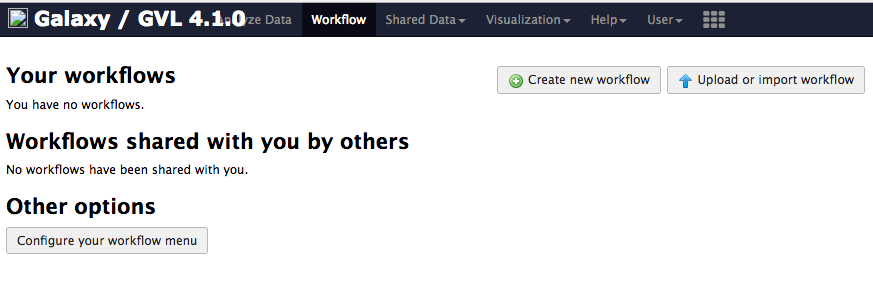
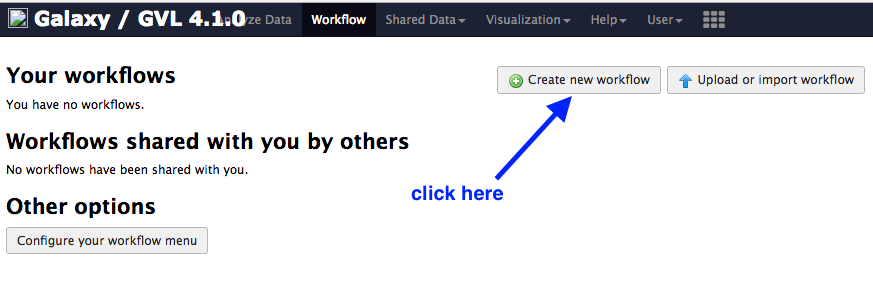
finished draft workflows module

Changed region(s): [[0.5876, 0.3257, 0.6804, 0.5329], [0.4639, 0.6217, 0.5876, 0.6809], [0.5567, 0.5329, 0.5876, 0.5921]]

diff --git a/docs/modules/workflows/index.md b/docs/modules/workflows/index.md
@@ -3,9 +3,9 @@
 
 This tutorial assumes you have used Galaxy before.
 
-Although we can use tools in Galaxy to analyse data and create a history, there is also a way to create a workflow of files, tools, settings and outputs.
+Although we can use tools in Galaxy to analyse data and create a history, there is also a way to create a workflow of files, tools, settings and outputs. You can then input different datasets and run the workflow.
 
-You can then input different datasets and run the workflow.
+This tutorial covers building a workflow to analyse a bacterial genome, from input Fastq sequencing reads to assembly, annotation, and visualization.
 
 ## Start
 
@@ -21,7 +21,7 @@ Import a history of data files:
 
 - Click <ss>Submit</ss>
 - Wait a few seconds.
-- Click on the "view all histories" button ![histories icon](images/histories.png)
+- Click on the "View all histories" button ![histories icon](images/histories.png)
 - See if the Galaxy history has been imported: it will be called <fn>imported from archive: Data</fn>
 - Above that pane, click on the <ss>Switch to</ss> button.
 - Then click <ss>Done</ss> (in the top left corner).
@@ -31,43 +31,44 @@ Import a history of data files:
 
 ## Build a workflow
 
-We will write a workflow for assembling a bacterial genome with Spades and annotating it with Prokka.
+We will first write a workflow for genome assembly.
 
-In the top menu bar in Galaxy, click on "Workflow".
+- In the top menu bar in Galaxy, click on "Workflow".
 
-workflow_menu.png
+![workflowmenu](images/workflow_menu.png)
 
-Click on <ss>Create new workflow</ss>
+- Click on <ss>Create new workflow</ss>
 
-create_new.png
+![createnew](images/create_new.png)
 
-Under "Workflow Name:" put in e.g. Reads to Annotation.
+- Under <ss>Workflow Name:</ss> put in "Reads to Annotation".
 
-Click <ss>Create</ss>
+- Click <ss>Create</ss>
 
-This will bring up the "Workflow Canvas", a grid where you can arrange the workflow.
+- This will bring up the "Workflow Canvas", a grid where you can arrange the workflow.
 
 ### Add inputs
 
-In the Tools panel, click <ss>Inputs: Input datset</ss> (at the very top of the list).
+- In the Tools panel, click <ss>Inputs: Input datset</ss> twice (at the very top of the list).
 
-A box will appear: drag it to the left and there will be another box underneath it. Drag this also to the left.
+- A box will appear: drag it to the left and there will be another box underneath it. Drag this also to the left. Your workflow canvas should look like this:
 
-inputs.png
+![inputs](images/inputs.png)
 
-Click on the first box. Look in the right hand panel (now called "Details") and change the name of the Input dataset to R1.fastq. Press Enter for the change to be saved.
-R1fastq.png
+- Click on the first box. Look in the right hand panel (now called "Details") and change the name of the Input dataset to <fn>R1.fastq</fn>. Press Enter for the change to be saved.
 
-Repeat for the second input dataset box, naming that one R2.fastq.
+![input_name](images/R1fastq.png)
+
+- Repeat for the second input dataset box, naming that one <fn>R2.fastq</fn>.
 
 ### Add the tool "spades"
 
-In the tools panel, click on NGS Analysis: NGS Assembly: spades
-This brings up the spades tool box:
+- In the tools panel, click on <ss>NGS Analysis: NGS Assembly: spades</ss>.
+This puts the spades box onto the workflow canvas.
 
-spades.png
+![spades](images/spades.png)
 
-Click on that box and look in the Details pane on the right. This shows all the options in spades. Choose:
+- Click on the spades box and look in the Details pane on the right. This shows all the options in spades. Choose:
 
 - <ss>Run only Assembly</ss>: *Yes* [the *Yes* button should be darker grey]
 - <ss>Kmers to use separated by commas:</ss> *33,55,91*  [note: no spaces]  
@@ -75,56 +76,200 @@ Click on that box and look in the Details pane on the right. This shows all the 
 
 ### Join inputs to the tool
 
-Now tell spades which input files to use. Look at the input dataset box called R1.fastq and find the small arrow: >
+Now tell spades which input files to use.
 
-Click on this and drag the arrow over to the spades box input arrow > next to "Libraries 1 > Files 1 > Forward reads".
+- Look at the input dataset box called <fn>R1.fastq</fn> and find the small arrow: >
 
-Repeat for R2.fastq, joining to "Reverse reads":
+- Click on this and drag the arrow over to the spades box input arrow > next to "Libraries 1 > Files 1 > Forward reads".
 
-join.png
+![join boxes](images/join.png)
+
+- Repeat for the dataset box <fn>R2.fastq</fn>, joining to the spades box next to "Libraries 1 > Files 1 > Reverse reads".
 
 ### Save it and run
 
-Click on the cog at the top right of the workflow canvas and "Save".
+- Click on the cog at the top right of the workflow canvas and "Save".
 
-save.png
+![save workflow](images/save.png)
 
-Click the cog again and choose "Run".
+- Click the cog again and choose "Run".
 
-Under <ss>Step1: Input dataset</ss> choose <fn>mutant_R1.fastq</fn>.
-Under <ss>Step2: Input dataset</ss> choose <fn>mutant_R2.fastq</fn>.
+- This brings up a window where you specify the input datasets to use in the workflow.
 
-Click <ss>Run workflow</ss>.
+    - Under <ss>Step1: Input dataset</ss> choose <fn>mutant_R1.fastq</fn>.
+    - Under <ss>Step2: Input dataset</ss> choose <fn>mutant_R2.fastq</fn>.
+
+- Click <ss>Run workflow</ss>.
 
 This will run the workflow (spades) and save the output to the top of your current history in the right hand panel.
 
-View some of the files with the eye icon to check that the workflow (in this case, just spades) ran correctly.
+- View some of the output files with the eye icon to check that the workflow (in this case, just spades) ran correctly.
 
-## Add annotation to the worfklow
+## Add to the worfklow
 
-Go to the top panel and click "Workflow".
+We will add another tool to the workflow.
 
-Your workflow "Reads to Annotation" should be in the list. Click on the drop-down arrow next to this workflow and choose "Edit". This will bring up the Workflow Canvas where we can add more inputs and tools.
+- Go to the top Galaxy panel and click "Workflow".
 
-Click on prokka.
+- Your workflow <fn>Reads to Annotation</fn> should be in the list. Click on the drop-down arrow next to this workflow and choose <ss>Edit</ss>.
 
-join spades output: contigs to prokka input: contigs.
+- This will bring up the Workflow Canvas where we can add more inputs and tools.
 
-prokka.png
+- In the Tools panel, click on <ss>NGS Annotation: Prokka</ss>. This will add a Prokka box to the workflow canvas.
 
-Click on the prokka box and change some of the settings in the right hand "Details" panel:
+- We need to tell Prokka which genome assembly) to annotate. Join the spades output called <fn>out_contigs(fasta)</fn> to the Prokka input called <fn>Contigs to annotate</fn>.
 
-- Set the following parameters (leave everything else unchanged):
+![join spades to prokka](images/prokka.png)
+
+- Click on the Prokka box and change some of the settings in the right hand Details panel:
+
+    - Set the following parameters (leave everything else unchanged):
     - <ss>Locus tag prefix (--locustag)</ss>: P
     - <ss>Force GenBank/ENA/DDJB compliance (--compliant)</ss>: *No*
     - <ss>Sequencing Centre ID (--centre)</ss>: V
     - <ss>Use genus-specific BLAST database</ss> *No*  
 
+- Click on the cog to the top right of the workflow canvas to save.
 
-Click on the cog to save.
+- Click on the cog again to run.
 
-Click on the cog to run. Again choose the R1 and R2 input files and Run workflow.
+    - Again, choose the input files: <fn>mutant_R1.fastq</fn> and <fn>mutant_R2.fastq</fn>, and then click <ss>Run workflow</ss>.
 
-## Add visualization to the workflow
+- The output from the workflow (files from spades and prokka) will appear at the top of the History panel.
 
-Add JBrowse.
+- Click on the eye icon for some files to verify the workflow ran correctly.      
+
+## Add more to the workflow
+
+We will add a visualization tool to view the genome annotation.
+
+- Go to the top Galaxy panel and click "Workflow".
+
+- Your workflow <fn>Reads to Annotation</fn> should be in the list. Click on the drop-down arrow next to this workflow and choose <ss>Edit</ss>.
+
+- This will bring up the Workflow Canvas where we can add more inputs and tools.
+
+- In the Tools panel, click on <ss>Statistics and Visualisation: Graph/Display Data: JBrowse</ss>. This will add a JBrowse box to the workflow canvas.
+
+- Click on the JBrowse box. In the Details pane:
+
+    - Under <ss>JBrowse-in-Galaxy Action</ss> choose *New JBrowse Instance*.
+
+    - Under <ss>Reference genome to display</ss> choose *Use a genome from history*.
+
+    - For <ss>Produce a Standalone Instance</ss> select *Yes*.
+
+    - For <ss>Genetic Code</ss> choose *11: The Bacterial, Archaeal and Plant Plastid Code*.
+
+    - Click <ss>Insert Track Group</ss>
+
+    - Under <ss>Track Category</ss> type in *gene annotations*.
+
+    - Click <ss>Insert Annotation Track</ss>
+
+    - For <ss>Track Type</ss> choose *GFF/GFF3/BED/GBK Features*
+
+    - Under <ss>JBrowse Track Type[Advanced]</ss> select *Canvas Features*.
+
+    - Click on <ss>JBrowse Styling Options <Advanced]</ss>
+
+    - Under <ss>JBrowse style.label</ss> correct the word "prodcut" to "product".
+
+    - Under <ss>Track Visibility</ss> choose *On for new users*.
+
+- Now we need to tell JBrowse the input files to use.
+
+    - Join the Prokka output <fn>out_fna (fasta)</fn> to the JBrowse input <fn>Fasta sequences</fn>
+
+    - Join the Prokka output <fn>out_gff (gff)</fn> to the JBrowse input <fn>Track Group 1...</fn>
+
+![jbrowse](images/jbrowse.png)
+
+- Click on the cog to save; again to run; choose input files; <ss>Run workflow</ss>; examine output files in current history.
+
+- The workflow will now assemble and annotate the genome, and create a JBrowse view of the annotations.
+
+- JBrowse will produce one output file.
+
+    - Click on the eye icon to view.
+    - In the centre drop down box, choose contig 6.
+    - Under "Available Tracks" on the left, tick the boxes.
+    - Zoom in and out with the plus and minus icons.
+    - The blue blocks are the genome annotations.
+
+![annotations](images/annotations.png)
+
+
+
+
+
+
+<!--  ## Extension section
+
+Create a new workflow for variant calling.
+- inputs:
+- tools:
+- jbrowse:
+
+-->
+
+## Summary
+
+- Our workflow is now:
+
+    - <fn>Fastq</fn> sequence reads to Spades for assembly
+    - Spades <fn>contigs fasta file</fn> to Prokka for annotation
+    - Prokka <fn>fasta file</fn> and <fn>.gff file</fn> to JBrowse for visualisation.
+
+- We can re-run this workflow with different input Fastq files.
+
+## Other workflow options
+
+### Saving outputs
+
+To save only some output files:
+
+- Go to the workflow canvas.
+- Find the star next to the outputs.
+- Click on the star for any outputs you want to save.
+
+![star](images/star.png)
+
+To save these starred files from the workflow output as a new history:
+
+- Before you click <ss>Run workflow</ss>, tick the box above to <ss>Send results to a new history</ss>.
+
+###Import a workflow
+
+To import an existing Galaxy Workflow:
+
+- Go to the Workflow tab in the top panel.
+- At the top right, click on <ss>Upload or import workflow</ss>.
+
+###Extract a workflow
+
+You can extract a workflow from an existing Galaxy history.
+
+- Go to your Galaxy history
+- Click on the History cog icon and choose "Extract Workflow".
+- Give it a name and click <ss>Create Workflow</ss>.
+- To edit, go to the Workflow tab, select the workflow, and choose "Edit" from the drop down menu. You can then edit the steps on the Workflow Canvas.
+
+### A note on workflow tabs
+
+We have been using the top Workflow tab. There is another tab at the bottom of the tool panel called Workflows. Click on <ss>Workflows: All Workflows</ss>. This gives a similar view with a list of workflows, and you can also click on the top right tab "switch to workflow management view".
+
+To return to the main galaxy window click on the Analyze Data tab in the top panel.
+
+### Links
+
+Introduction to workflows:
+<https://wiki.galaxyproject.org/Learn/AdvancedWorkflow>
+
+
+Another tutorial on workflows:
+<http://vlsci.github.io/lscc_docs/tutorials/galaxy-workflows/galaxy-workflows/>
+
+
+Galaxy published workflows:
+<https://usegalaxy.org/workflow/list_published>
